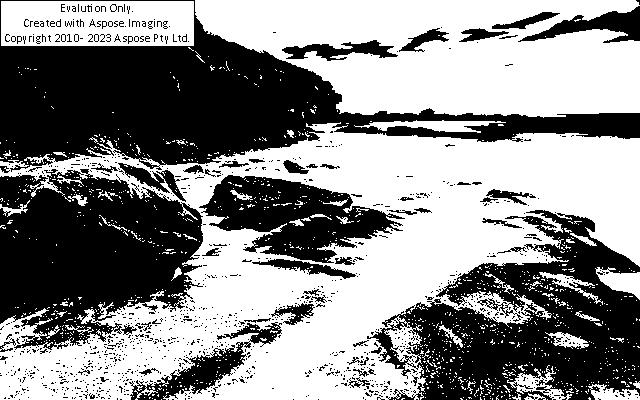
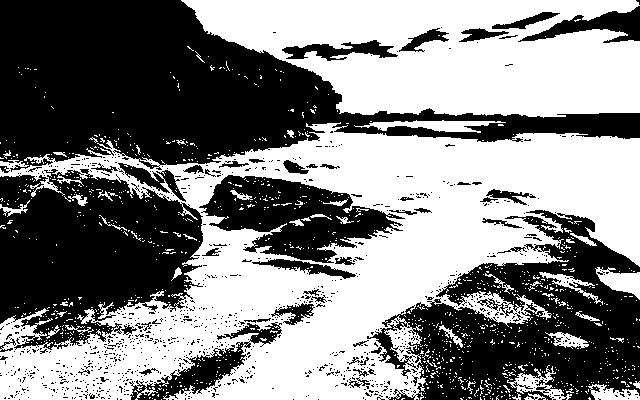
new images without watermarks

Changed region(s): [[0.0, 0.0, 0.3125, 0.12]]

diff --git a/net/developer-guide/how-to/edit-photo-programmatically/_index.md b/net/developer-guide/how-to/edit-photo-programmatically/_index.md
@@ -69,11 +69,11 @@ Sometimes you need to remove a background from a photo and leave only human’s 
 
 Original image:
 
-<img src="images/Original_image_before_edit.png" alt="Original image before editing" width="500" height="329"/>
+<img src="images/Original_image_before_edit.jpg" alt="Original image before editing" width="640" height="421"/>
 
 Image with removed background:
 
-<img src="images/Remove_background_image.png" alt="Image with removed background" width="500" height="329"/>
+<img src="images/Remove_background_image.jpg" alt="Image with removed background" width="640" height="421"/>
 
 C# code example: [howto remove background](howto_remove_background.md).
 
